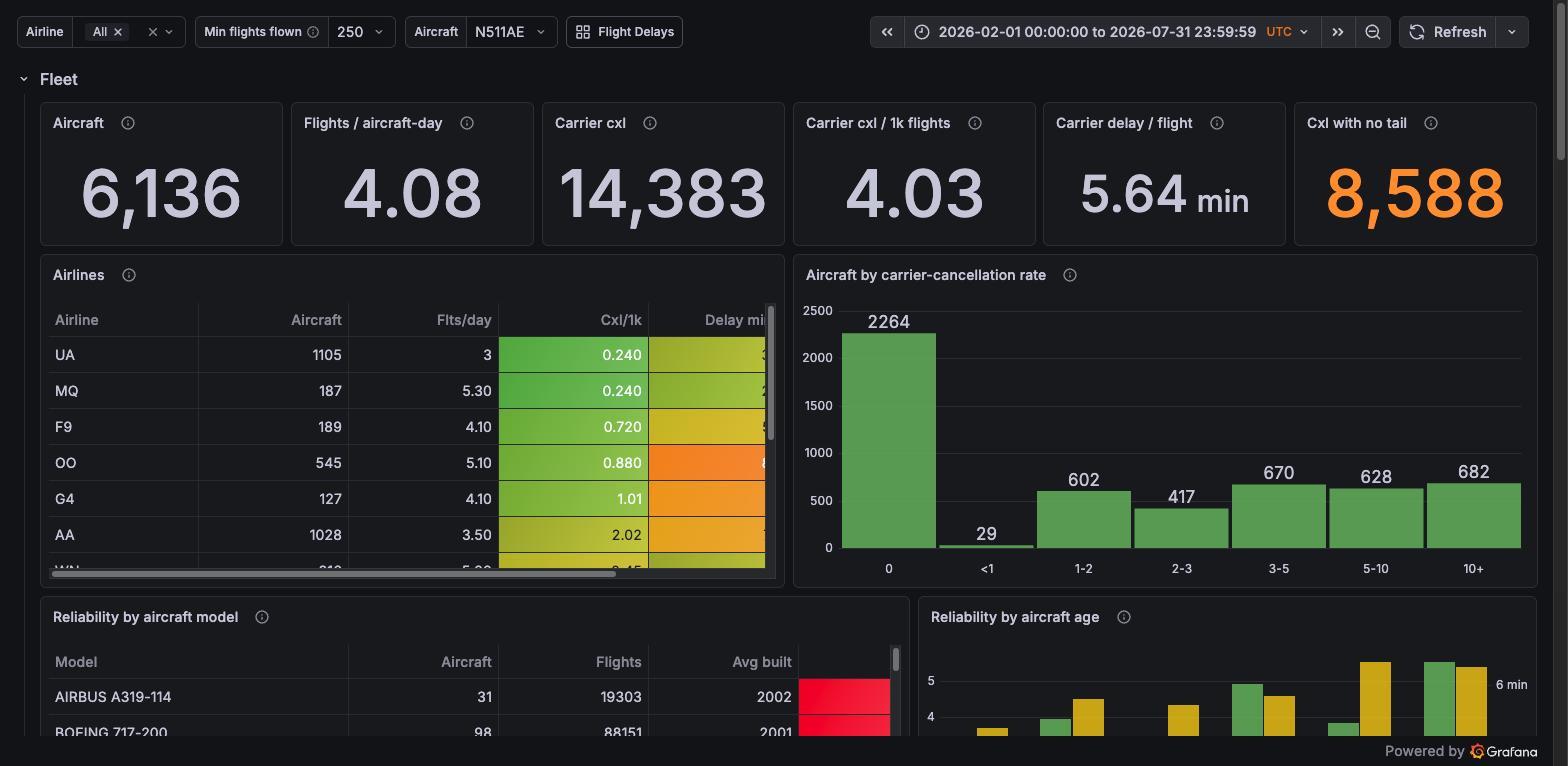
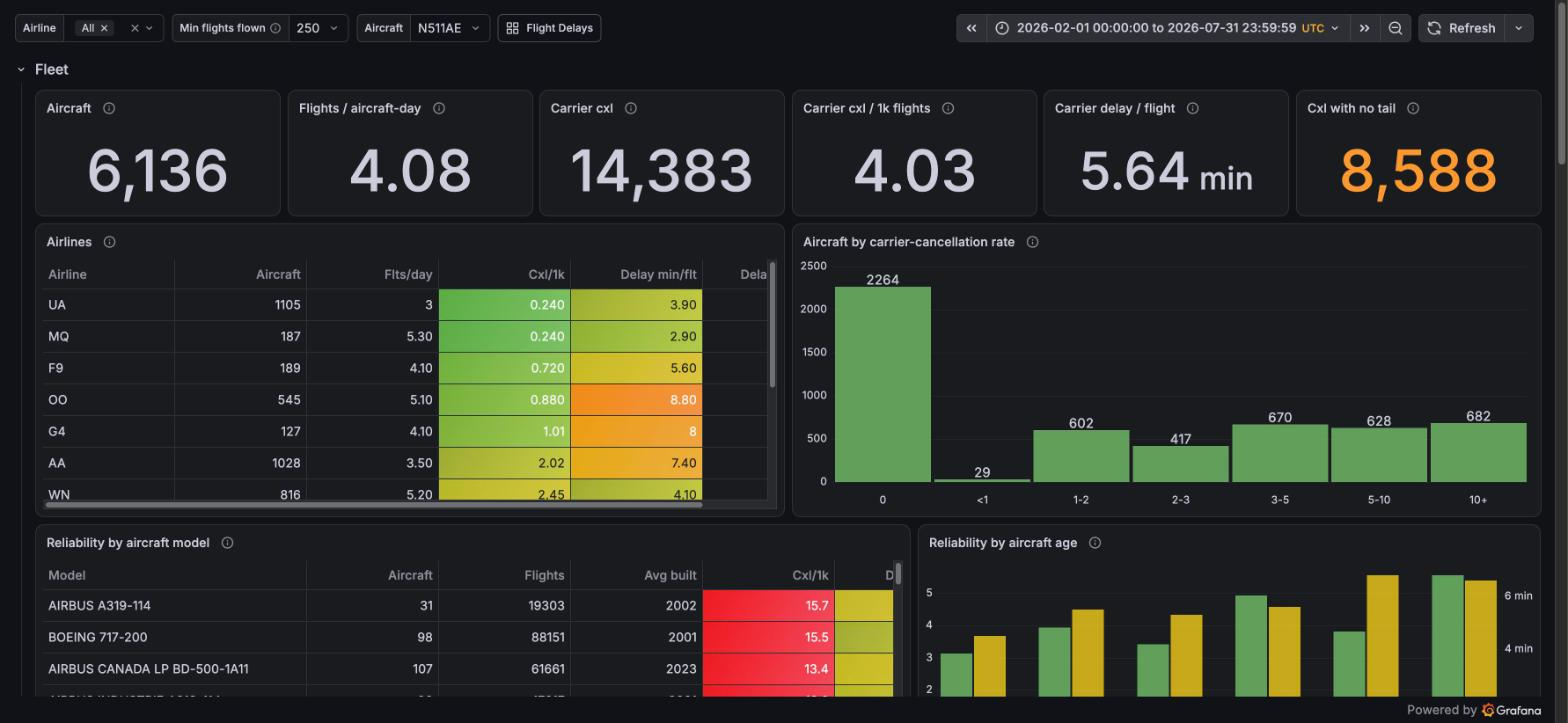
Test the demo VM and Grafana; retake screenshots on BigQuery
gcp/create-vm.sh built the server from scratch, ten-year load included,
and all four dashboards ran in Grafana 13.2 with plugin 3.4.3.

The plugin's datasource test calls the Cloud Resource Manager API, so
create-vm.sh now enables it; the README says so for other setups.
The screenshots, carried over from the ClickHouse version, are retaken
from the BigQuery demo server.

diff --git a/README.md b/README.md
@@ -12,8 +12,9 @@ goes through what changed in the code, and why.
 
 **Status.** Every script, the Java loader and all 82 dashboard queries have been run
 against BigQuery, including a full ten-year load (2016-01 to 2026-07: 68.4 million flights,
-42.2 million weather reports). Not yet tested: `grafana-provision.sh` and the dashboards
-in a running Grafana, and the Google Cloud VM (`gcp/create-vm.sh`, `install-server.sh`).
+42.2 million weather reports). In October 2026 `gcp/create-vm.sh` built the whole demo
+server from scratch, ten-year load included, in 56 minutes, and all four dashboards ran
+in Grafana 13.2 with version 3.4 of the plugin, every panel showing data.
 
 ![Flight Delays dashboard, February to July 2026](docs/screenshots/flight-delays.jpg)
 
@@ -244,6 +245,8 @@ Environmental Mesonet, which asks to be credited; the other sources are public d
 Grafana queries BigQuery through the [BigQuery plugin](https://grafana.com/grafana/plugins/grafana-bigquery-datasource/)
 (3.x), so it needs internet access and a Google identity that may read the dataset and run
 query jobs (the BigQuery Data Viewer and BigQuery Job User roles). Install the plugin first.
+The plugin's "Save & test" also needs the Cloud Resource Manager API enabled in the project
+(`gcloud services enable cloudresourcemanager.googleapis.com`); queries work without it.
 
 **Automatic setup** works for a Grafana installed from the Linux packages (configuration in
 `/etc/grafana`, run by systemd as `grafana-server`) on a machine you can SSH into with a key
@@ -291,7 +294,7 @@ needs them (`Cxl/1k`, `Min temp (°F)`), the query uses a plain name and the pan
 
 ### Screenshots
 
-These were taken with the ClickHouse version of this project; the dashboards are the same.
+Taken in October 2026 on the demo server that `gcp/create-vm.sh` builds (Grafana 13.2).
 
 **Flight Delays**, February to July 2026: headline figures, delays and cancellations by
 day, delay causes by month and the airline table (top, above); further down, the airport
